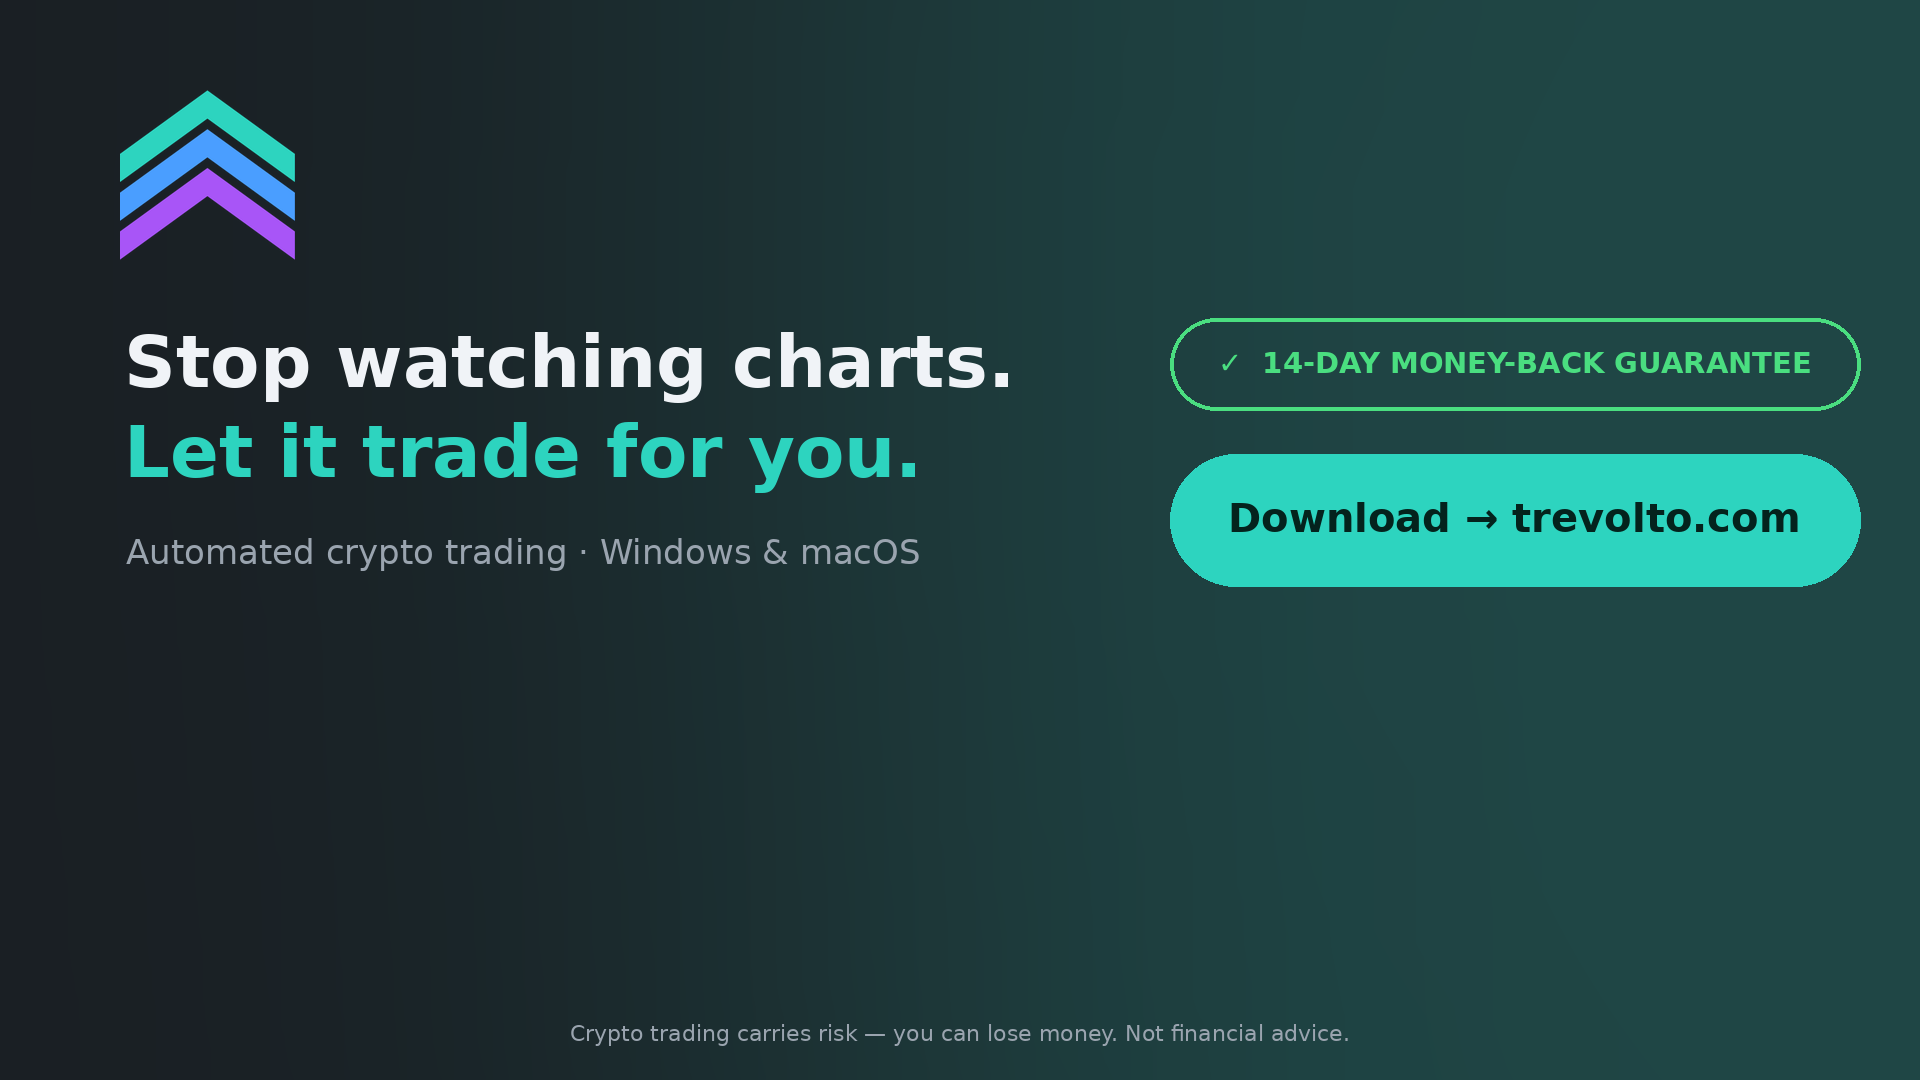
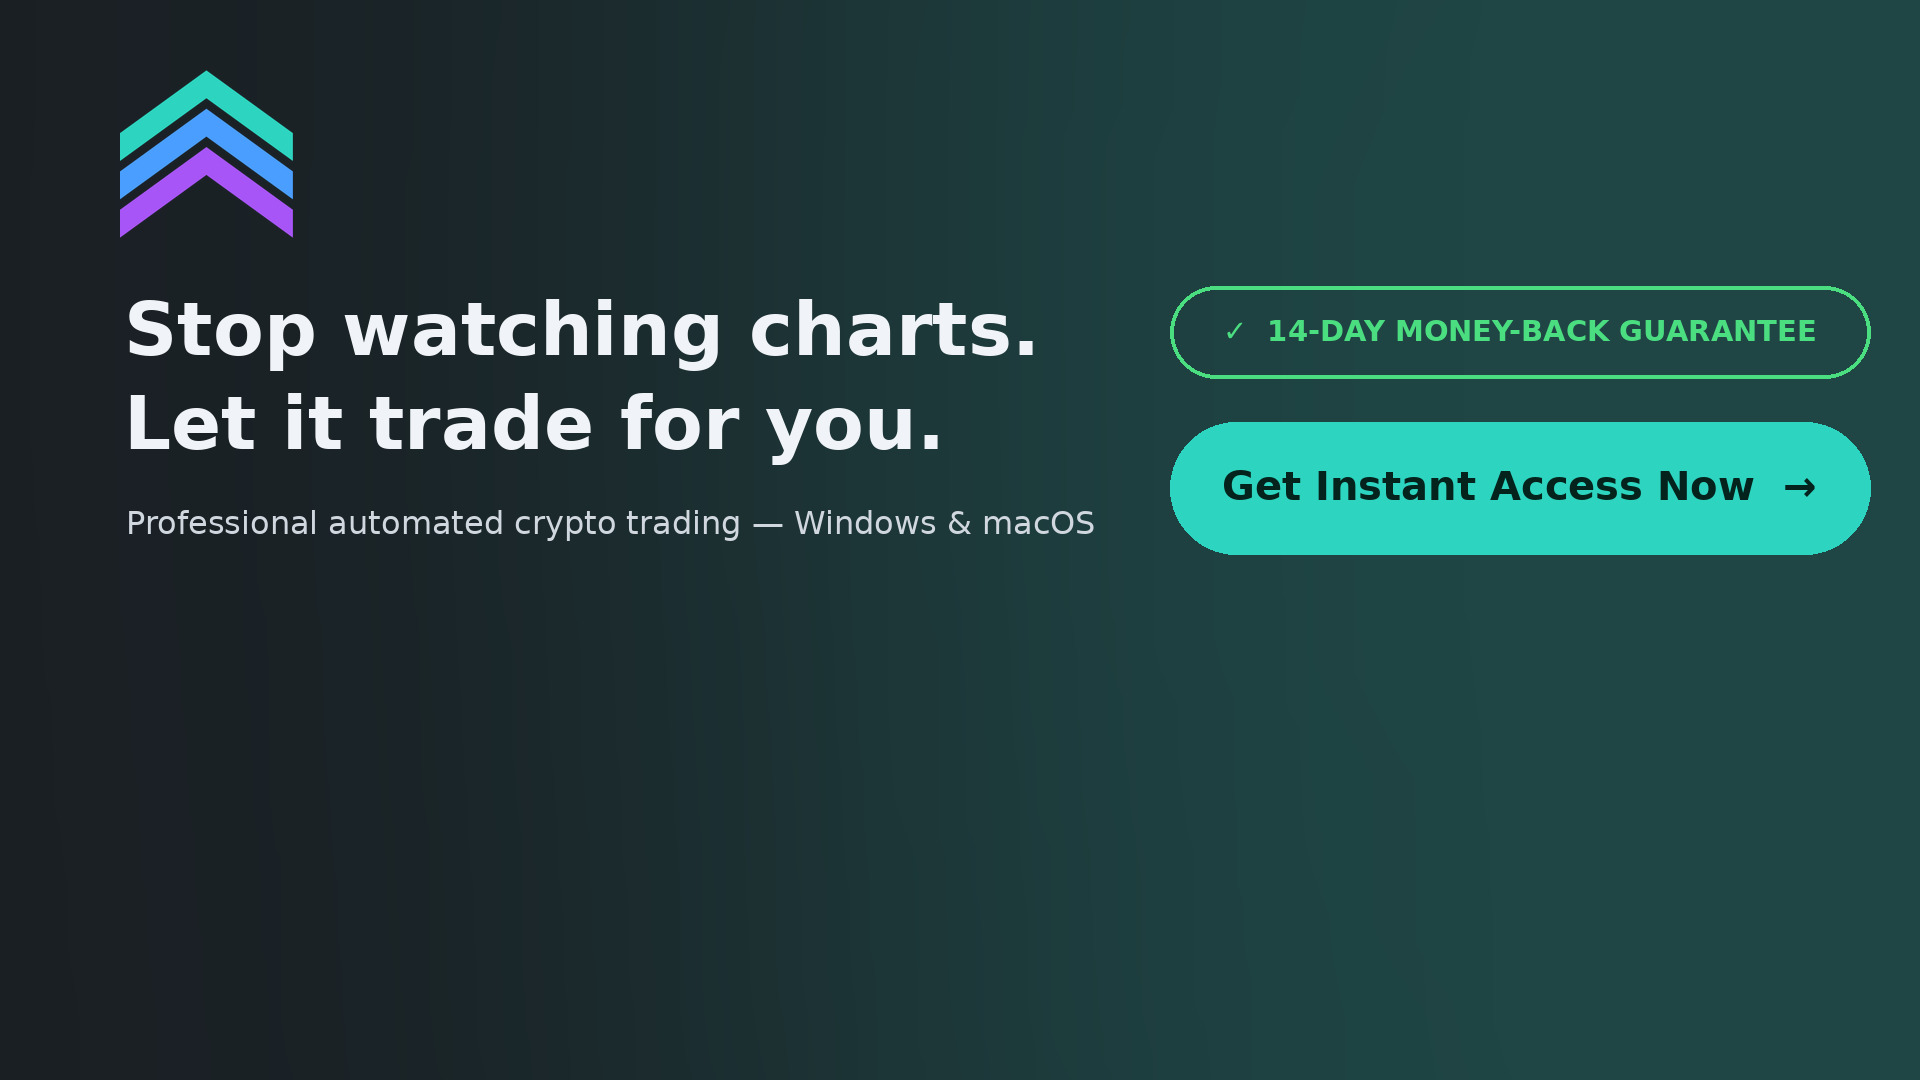
Trevolto WhatsApp cover: top-align, white headline, pro copy, new CTA
- Pull content to the very top; headline now full white.
- CTA: 'Get Instant Access Now →' (was Download); subline -> 'Professional
  automated crypto trading — Windows & macOS'.
- Remove the on-image risk disclaimer.

diff --git a/trevolto/make_whatsapp.py b/trevolto/make_whatsapp.py
@@ -19,27 +19,25 @@ def build(path=OUT):
     im = Image.new("RGBA", (W, H), SMOKE + (255,))
     im = Image.alpha_composite(im, mc.glow((W, H), (int(W * 0.70), int(H * 0.46)), int(H * 0.85), TEAL, 55))
     d = ImageDraw.Draw(im)
-    # LEFT: chevron icon + headline + subline (anchored to the top)
+    # LEFT: chevron icon + headline + subline (pulled to the very top, white text)
     x = 120
     ic = trim(Image.open(os.path.join(HERE, "logo.png")).convert("RGBA"))
-    ih = 170; ic = ic.resize((int(ic.width * ih / ic.height), ih), Image.LANCZOS)
-    im.alpha_composite(ic, (x, 90)); d = ImageDraw.Draw(im)
-    d.text((x + 4, 320), "Stop watching charts.", font=mc.font(72), fill=TXT)
-    d.text((x + 4, 410), "Let it trade for you.", font=mc.font(72), fill=TEAL)
-    d.text((x + 6, 532), "Automated crypto trading · Windows & macOS", font=mc.font(34, False), fill=DIM)
+    ih = 168; ic = ic.resize((int(ic.width * ih / ic.height), ih), Image.LANCZOS)
+    im.alpha_composite(ic, (x, 70)); d = ImageDraw.Draw(im)
+    d.text((x + 4, 286), "Stop watching charts.", font=mc.font(74), fill=TXT)
+    d.text((x + 4, 380), "Let it trade for you.", font=mc.font(74), fill=TXT)
+    d.text((x + 6, 504), "Professional automated crypto trading — Windows & macOS",
+           font=mc.font(32, False), fill=(208, 215, 222))
     # RIGHT: money-back badge + CTA (aligned with the headline, near the top)
-    rx, rw = 1170, 690
-    byy, bh = 318, 92
+    rx, rw = 1170, 700
+    byy, bh = 286, 92
     d.rounded_rectangle([rx, byy, rx + rw, byy + bh], bh // 2, outline=LGREEN, width=4)
     t = "✓  14-DAY MONEY-BACK GUARANTEE"; f = mc.font(29)
     d.text((rx + (rw - d.textlength(t, font=f)) // 2, byy + bh // 2 - 18), t, font=f, fill=LGREEN)
     cy, ch = byy + bh + 44, 132
     d.rounded_rectangle([rx, cy, rx + rw, cy + ch], ch // 2, fill=TEAL)
-    cta = "Download → trevolto.com"; f = mc.font(40)
+    cta = "Get Instant Access Now  →"; f = mc.font(40)
     d.text((rx + (rw - d.textlength(cta, font=f)) // 2, cy + ch // 2 - 26), cta, font=f, fill="#04231d")
-    # disclaimer
-    t = "Crypto trading carries risk — you can lose money. Not financial advice."
-    d.text(((W - d.textlength(t, font=mc.font(22, False))) // 2, H - 60), t, font=mc.font(22, False), fill=DIM)
     im.convert("RGB").save(path, quality=94)
     print("wrote", os.path.normpath(path), im.size)
 
